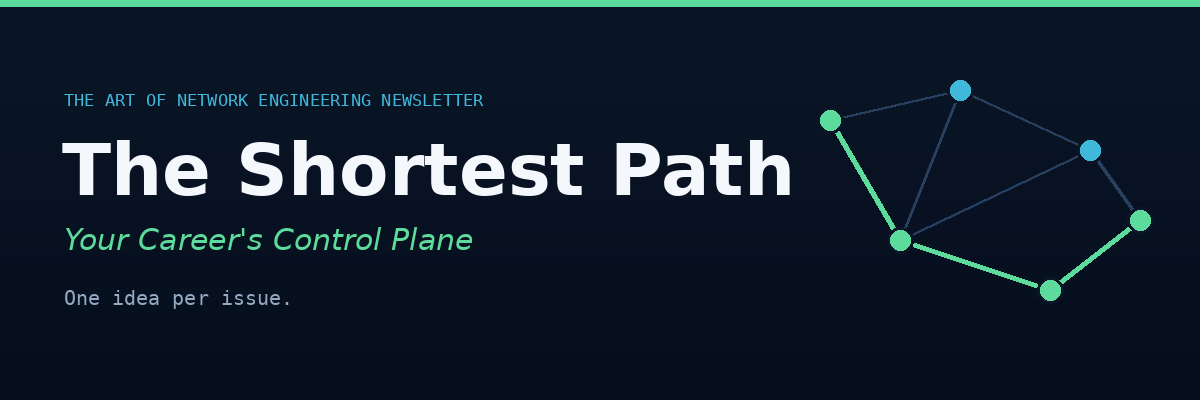
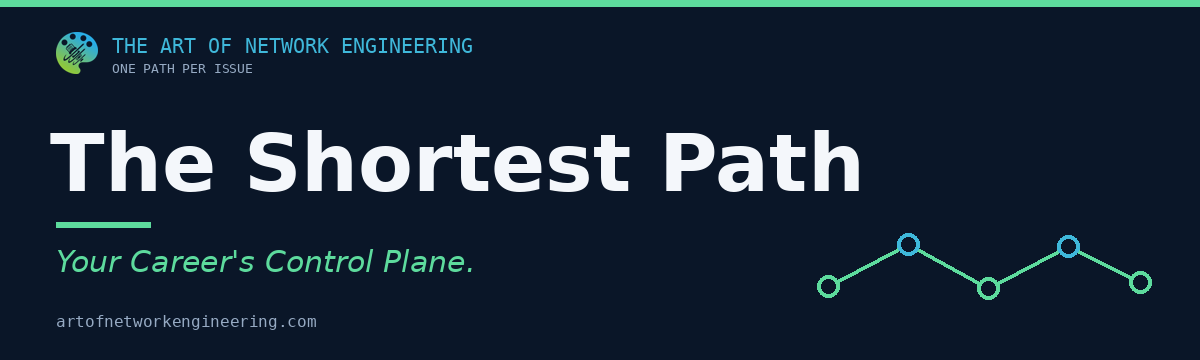
Newsletter band: use original-style masthead (no Issue #1), compact height, drop 'one idea per issue' echo
- Regenerate public/shortest-path-banner.png to match Andy's original masthead
  (eyebrow, wordmark, green accent, 'Your Career's Control Plane', shortest-path
  zigzag graph), slimmer 1200x360, no stale 'ISSUE #1'.
- Shrink the band: max-w-2xl, tighter padding, shorter body copy.
- Remove the duplicate 'One idea per issue' line (masthead + body were echoing).

diff --git a/app/page.tsx b/app/page.tsx
@@ -116,25 +116,25 @@ export default function Home() {
       </section>
 
       {/* Newsletter */}
-      <section id="newsletter" className="py-12 border-t border-border">
+      <section id="newsletter" className="py-10 border-t border-border">
         <SectionLabel>Newsletter</SectionLabel>
-        <div className="mt-4 max-w-3xl overflow-hidden rounded-sm border border-border">
+        <div className="mt-4 max-w-2xl overflow-hidden rounded-sm border border-border">
           <Image
             src="/shortest-path-banner.png"
-            alt="The Shortest Path — Your Career's Control Plane"
+            alt="The Shortest Path, Your Career's Control Plane"
             width={1200}
-            height={400}
+            height={360}
             className="h-auto w-full"
           />
-          <div className="bg-surface p-6">
-            <p className="text-text-muted">
-              One idea per issue, pulled from six years of conversations with network engineers. No
-              filler, no list-padding sponsors, no AI slop.
+          <div className="bg-surface p-5">
+            <p className="text-sm text-text-muted">
+              Practical career guidance for network engineers, pulled from six years of
+              conversations on the show. No filler, no list-padding sponsors, no AI slop.
             </p>
             <div className="mt-4 max-w-md">
               <NewsletterForm />
             </div>
-            <p className="mt-3 text-sm">
+            <p className="mt-2 text-sm">
               <a
                 href="https://theshortestpath.beehiiv.com/p/proof-beats-permission"
                 target="_blank"

diff --git a/app/newsletter/page.tsx b/app/newsletter/page.tsx
@@ -12,19 +12,18 @@ export default function NewsletterPage() {
   return (
     <div className="mx-auto max-w-content px-6 py-16">
       <SectionLabel>Newsletter</SectionLabel>
-      <div className="mt-4 max-w-3xl overflow-hidden rounded-sm border border-border">
+      <div className="mt-4 max-w-2xl overflow-hidden rounded-sm border border-border">
         <Image
           src="/shortest-path-banner.png"
-          alt="The Shortest Path — Your Career's Control Plane"
+          alt="The Shortest Path, Your Career's Control Plane"
           width={1200}
-          height={400}
+          height={360}
           className="h-auto w-full"
           priority
         />
-        <div className="bg-surface p-6 md:p-8">
+        <div className="bg-surface p-6">
           <p className="text-text text-lg">
-            Practical career guidance from network engineering&apos;s brightest minds, one idea per
-            issue.
+            Practical career guidance from network engineering&apos;s brightest minds.
           </p>
           <p className="mt-3 text-text-muted">
             No filler, no list-padding sponsors, no AI slop. Subscribe and the next issue lands in

diff --git a/components/NewsletterPopup.tsx b/components/NewsletterPopup.tsx
@@ -61,9 +61,9 @@ export function NewsletterPopup() {
         </button>
         <Image
           src="/shortest-path-banner.png"
-          alt="The Shortest Path — Your Career's Control Plane"
+          alt="The Shortest Path, Your Career's Control Plane"
           width={1200}
-          height={400}
+          height={360}
           className="h-auto w-full"
         />
         <div className="p-6">
